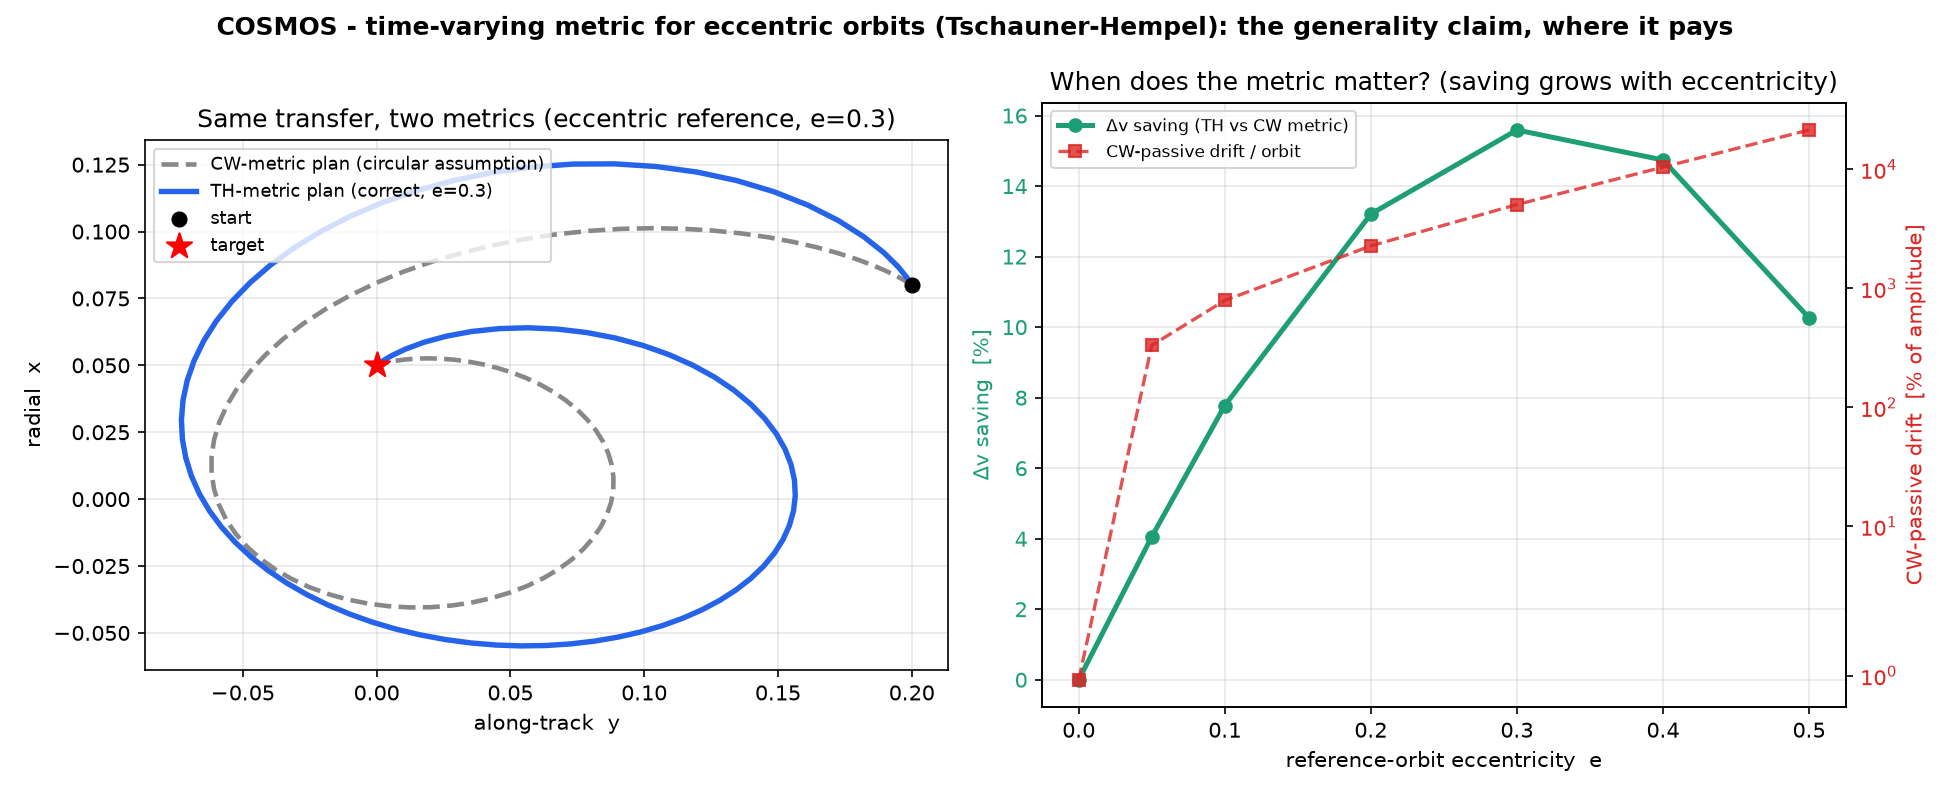
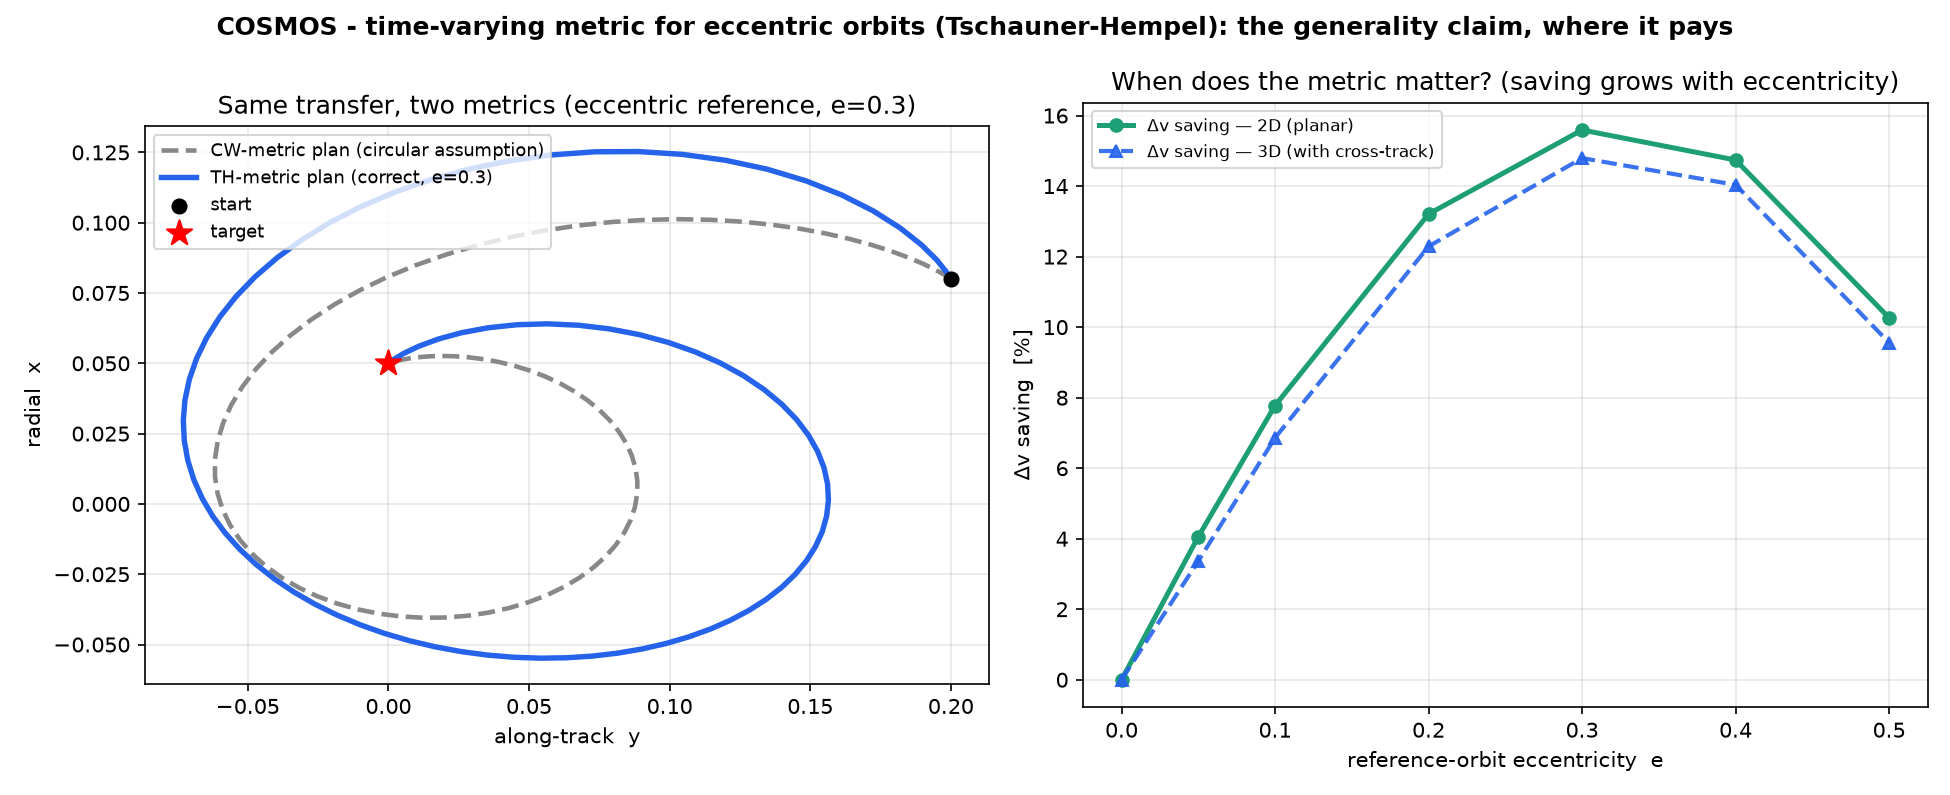
feat: generalize the time-varying (eccentric) metric to 3D cross-track
- _core: time_varying_operators / time_varying_offset / tschauner_hempel_coeffs
  are now dimension-general (2D or 3D). The 3D cross-track mode is the true
  time-varying gravity gradient z'' = -(mu/r^3) z, which reduces to the CW
  oscillator z'' + n^2 z at e=0. 2D output is bit-for-bit unchanged.
- cosmos_eccentric: adds a 3D (with cross-track) scenario scored under the full
  3D nonlinear relative EOM; the figure overlays the 2D and 3D saving curves,
  showing the generality holds out-of-plane (~15% at e=0.3 in both).
- T10b locks: 3D TH operator reduces to CW-3D at e=0 (bit-for-bit) and the 3D
  saving is ~0 at e=0, large at e=0.3. 17/17 tests pass.

diff --git a/src/cosmos/_core.py b/src/cosmos/_core.py
@@ -241,18 +241,8 @@ def spd_inverse(M, ridge=1e-9):
 # mismatch is ~1e-5 and CW is already adequate.
 
 
-def tschauner_hempel_coeffs(t, e, nm, a=1.0, mu=1.0):
-    """Planar time-varying coefficient blocks (Kx, Kv) of the linearized relative
-       motion about an eccentric reference orbit (semi-major axis ``a``,
-       eccentricity ``e``, mean motion ``nm``), in the rotating LVLH/Hill frame
-       (x = radial, y = along-track):
-
-           x'' = (theta_dot^2 + 2 mu/r^3) x + theta_ddot y + 2 theta_dot y' + u_x
-           y'' = -theta_ddot x + (theta_dot^2 - mu/r^3) y - 2 theta_dot x' + u_y
-
-       so  [x'';y''] = Kx [x;y] + Kv [x';y'] + u, with Kx, Kv evaluated at the
-       reference anomaly reached at time ``t`` (Kepler-solved). As e -> 0 this
-       reduces to the Clohessy-Wiltshire blocks exactly."""
+def _reference_anomaly(t, e, nm, a=1.0, mu=1.0):
+    """(r, theta_dot, theta_ddot) of the eccentric reference orbit at time t."""
     M = nm * t
     E = M
     for _ in range(60):                       # Newton solve of Kepler's equation
@@ -261,26 +251,56 @@ def tschauner_hempel_coeffs(t, e, nm, a=1.0, mu=1.0):
                           np.sqrt(1 - e) * np.cos(E / 2))
     r = a * (1.0 - e * np.cos(E))
     h = np.sqrt(mu * a * (1.0 - e ** 2))
-    thd = h / r ** 2                          # reference angular rate
+    thd = h / r ** 2
     rdot = mu / h * e * np.sin(nu)
-    thdd = -2.0 * rdot * thd / r              # reference angular acceleration
+    thdd = -2.0 * rdot * thd / r
+    return r, thd, thdd
+
+
+def tschauner_hempel_coeffs(t, e, nm, a=1.0, mu=1.0, dim=2):
+    """Time-varying coefficient blocks (Kx, Kv) of the linearized relative motion
+       about an eccentric reference orbit (semi-major axis ``a``, eccentricity
+       ``e``, mean motion ``nm``), in the rotating LVLH/Hill frame
+       (x = radial, y = along-track, z = cross-track):
+
+           x'' = (theta_dot^2 + 2 mu/r^3) x + theta_ddot y + 2 theta_dot y' + u_x
+           y'' = -theta_ddot x + (theta_dot^2 - mu/r^3) y - 2 theta_dot x' + u_y
+           z'' = -(mu/r^3) z + u_z                       (dim=3 only)
+
+       so  qddot = Kx q + Kv qdot + u, with Kx, Kv (dim x dim) evaluated at the
+       reference anomaly reached at time ``t`` (Kepler-solved). As e -> 0 this
+       reduces to the Clohessy-Wiltshire blocks exactly (and the cross-track mode
+       to z'' + n^2 z, since mu/r^3 -> n^2 for a circular orbit)."""
+    r, thd, thdd = _reference_anomaly(t, e, nm, a=a, mu=mu)
     g = mu / r ** 3
-    Kx = np.array([[thd ** 2 + 2 * g, thdd],
-                   [-thdd, thd ** 2 - g]])
-    Kv = np.array([[0.0, 2 * thd],
-                   [-2 * thd, 0.0]])
+    if dim == 2:
+        Kx = np.array([[thd ** 2 + 2 * g, thdd],
+                       [-thdd, thd ** 2 - g]])
+        Kv = np.array([[0.0, 2 * thd],
+                       [-2 * thd, 0.0]])
+    elif dim == 3:
+        Kx = np.array([[thd ** 2 + 2 * g, thdd, 0.0],
+                       [-thdd, thd ** 2 - g, 0.0],
+                       [0.0, 0.0, -g]])              # cross-track: z'' = -(mu/r^3) z
+        Kv = np.array([[0.0, 2 * thd, 0.0],
+                       [-2 * thd, 0.0, 0.0],
+                       [0.0, 0.0, 0.0]])
+    else:
+        raise ValueError("dim must be 2 or 3")
     return Kx, Kv
 
 
-def time_varying_operators(n, dt, coeff_fn, w_bc=0.0):
-    """Control operator B = D2 - G(t) for 2D planar TIME-VARYING linear relative
-       dynamics. ``coeff_fn(t)`` must return the blocks ``(Kx, Kv)`` (2x2 each)
-       such that  [x'';y''] = Kx [x;y] + Kv [x';y'] + u  at time ``t``.
+def time_varying_operators(n, dt, coeff_fn, w_bc=0.0, dim=2):
+    """Control operator B = D2 - G(t) for planar/3D TIME-VARYING linear relative
+       dynamics. ``coeff_fn(t)`` must return the blocks ``(Kx, Kv)`` (each
+       ``dim x dim``) such that  qddot = Kx q + Kv qdot + u  at time ``t``.
 
        Returns ``(B, (B^T B)^-1, blocks)`` with the same interface as
        chomp_cw.cw_operators / linear_relative_operators, so the covariant solver,
        the closed-form optimum and the metric-aware projections all apply
-       unchanged. ``w_bc>0`` appends the four rest-to-rest boundary-velocity rows."""
+       unchanged. ``w_bc>0`` appends the 2*dim rest-to-rest boundary-velocity rows.
+       dim=2 reproduces the planar operator bit-for-bit; dim=3 adds the (time-
+       varying) cross-track mode."""
     D2 = np.zeros((n, n + 2)); D1 = np.zeros((n, n + 2))
     for t in range(n):
         D2[t, t] = 1.0; D2[t, t + 1] = -2.0; D2[t, t + 2] = 1.0
@@ -290,59 +310,57 @@ def time_varying_operators(n, dt, coeff_fn, w_bc=0.0):
     D1f, D1b = D1[:, 1:n + 1], D1[:, [0, n + 1]]
     I = np.eye(n)
 
-    Bxx = D2f.copy(); Bxy = np.zeros((n, n))
-    Byx = np.zeros((n, n)); Byy = D2f.copy()
-    # per-waypoint (row) coefficients -> subtract G(t_k) from that row
-    Kx_all = np.zeros((n, 2, 2)); Kv_all = np.zeros((n, 2, 2))
+    # per-dimension block grid; start each diagonal block from D2f, off-diagonals 0
+    blocks_grid = [[D2f.copy() if a == b else np.zeros((n, n))
+                    for b in range(dim)] for a in range(dim)]
+    Kx_all = np.zeros((n, dim, dim)); Kv_all = np.zeros((n, dim, dim))
     for t in range(n):
         tt = (t + 1) * dt                      # interior waypoint time
         Kx, Kv = coeff_fn(tt)
         Kx_all[t] = Kx; Kv_all[t] = Kv
-        Bxx[t] -= Kx[0, 0] * I[t] + Kv[0, 0] * D1f[t]
-        Bxy[t] -= Kx[0, 1] * I[t] + Kv[0, 1] * D1f[t]
-        Byx[t] -= Kx[1, 0] * I[t] + Kv[1, 0] * D1f[t]
-        Byy[t] -= Kx[1, 1] * I[t] + Kv[1, 1] * D1f[t]
-    B = np.block([[Bxx, Bxy], [Byx, Byy]])
+        for a in range(dim):                   # row block (output dim a)
+            for b in range(dim):               # col block (variable dim b)
+                blocks_grid[a][b][t] -= Kx[a, b] * I[t] + Kv[a, b] * D1f[t]
+    B = np.block(blocks_grid)
 
     sw = np.sqrt(w_bc)
     if w_bc > 0.0:
-        R = np.zeros((4, 2 * n))
-        R[0, 0] = sw / dt; R[1, n - 1] = -sw / dt
-        R[2, n] = sw / dt; R[3, 2 * n - 1] = -sw / dt
+        R = np.zeros((2 * dim, dim * n))
+        for d in range(dim):
+            R[2 * d, d * n] = sw / dt                 # start velocity, dim d
+            R[2 * d + 1, d * n + n - 1] = -sw / dt    # goal velocity,  dim d
         B = np.vstack([B, R])
 
-    M = B.T @ B + 1e-9 * np.eye(2 * n)
+    M = B.T @ B + 1e-9 * np.eye(dim * n)
     Minv = spd_inverse(M)
     blocks = dict(D2b=D2b, D1b=D1b, dt=dt, n=n, sw=sw, w_bc=w_bc,
-                  Kx=Kx_all, Kv=Kv_all)
+                  Kx=Kx_all, Kv=Kv_all, dim=dim)
     return B, Minv, blocks
 
 
 def time_varying_offset(blocks, start, goal):
-    """Constant term c0 so that  u = B xi + c0  for the time-varying operator.
-       The fixed endpoints feed the D2/D1 boundary columns AND the per-row G(t)
-       velocity coupling (the radial/along-track Coriolis term), so c0 carries a
-       Kv contribution that the constant-coefficient offset did not need."""
+    """Constant term c0 so that  u = B xi + c0  for the time-varying operator
+       (dim-general). The fixed endpoints feed the D2 boundary columns AND the
+       per-row G(t) velocity coupling, so c0 carries a Kv contribution that the
+       constant-coefficient offset did not need."""
     D2b, D1b = blocks["D2b"], blocks["D1b"]
-    dt, n = blocks["dt"], blocks["n"]
+    dt, n, dim = blocks["dt"], blocks["n"], blocks["dim"]
     Kv = blocks["Kv"]
-    ex = np.array([start[0], goal[0]]); ey = np.array([start[1], goal[1]])
-    # D2 boundary contribution (same as the constant-coefficient case)
-    c0x = D2b @ ex
-    c0y = D2b @ ey
-    # subtract the velocity-coupling of the FIXED endpoints: only the first/last
-    # interior rows see a boundary point through the centered velocity stencil D1b.
-    # D1b has nonzero entries only at waypoints 0 (start col) and n-1 (goal col).
-    vx_bc = D1b @ ex            # length-n, nonzero at rows 0 and n-1
-    vy_bc = D1b @ ey
+    # per-dim fixed-endpoint pairs [start_d, goal_d]
+    e = [np.array([start[d], goal[d]]) for d in range(dim)]
+    c0_blocks = [D2b @ e[d] for d in range(dim)]            # D2 boundary term
+    v_bc = [D1b @ e[d] for d in range(dim)]                 # endpoint velocity feed
     for t in range(n):
-        c0x[t] -= Kv[t, 0, 0] * vx_bc[t] + Kv[t, 0, 1] * vy_bc[t]
-        c0y[t] -= Kv[t, 1, 0] * vx_bc[t] + Kv[t, 1, 1] * vy_bc[t]
-    c0 = np.concatenate([c0x, c0y])
+        for a in range(dim):
+            for b in range(dim):
+                c0_blocks[a][t] -= Kv[t, a, b] * v_bc[b][t]
+    c0 = np.concatenate(c0_blocks)
     if blocks["w_bc"] > 0.0:
         sw = blocks["sw"]
-        c0 = np.concatenate([c0, np.array([-sw * start[0] / dt, sw * goal[0] / dt,
-                                           -sw * start[1] / dt, sw * goal[1] / dt])])
+        bc = []
+        for d in range(dim):
+            bc += [-sw * start[d] / dt, sw * goal[d] / dt]
+        c0 = np.concatenate([c0, np.array(bc)])
     return c0
 
 

diff --git a/src/cosmos/cosmos_eccentric.py b/src/cosmos/cosmos_eccentric.py
@@ -70,14 +70,21 @@ def reference_kinematics(t, e):
     return r, thd, thdd
 
 
-def true_relative_accel(t, x, y, vx, vy, e):
+def true_relative_accel(t, x, v, e):
     """Exact (nonlinear) relative acceleration in the rotating LVLH frame about an
-       eccentric orbit -- the GROUND TRUTH both plans are scored against."""
+       eccentric orbit -- the GROUND TRUTH both plans are scored against. Handles
+       2D (x = [radial, along-track]) and 3D (+ cross-track z); the cross-track
+       term is the pure nonlinear gravity gradient -MU*z/rc^3."""
     r, thd, thdd = reference_kinematics(t, e)
-    rc = np.sqrt((r + x) ** 2 + y ** 2)
-    ax = thdd * y + 2 * thd * vy + thd ** 2 * x - MU * (r + x) / rc ** 3 + MU / r ** 2
-    ay = -thdd * x - 2 * thd * vx + thd ** 2 * y - MU * y / rc ** 3
-    return ax, ay
+    xr, ya = x[0], x[1]
+    za = x[2] if len(x) == 3 else 0.0
+    rc = np.sqrt((r + xr) ** 2 + ya ** 2 + za ** 2)
+    ax = thdd * ya + 2 * thd * v[1] + thd ** 2 * xr - MU * (r + xr) / rc ** 3 + MU / r ** 2
+    ay = -thdd * xr - 2 * thd * v[0] + thd ** 2 * ya - MU * ya / rc ** 3
+    if len(x) == 3:
+        az = -MU * za / rc ** 3
+        return np.array([ax, ay, az])
+    return np.array([ax, ay])
 
 
 # ---------------------------------------------------------------------------
@@ -85,9 +92,11 @@ def true_relative_accel(t, x, y, vx, vy, e):
 # ---------------------------------------------------------------------------
 def plan(metric_e, start, goal, n, dt, w_bc=2.0e4):
     """Closed-form energy-optimal rest-to-rest plan in the metric of eccentricity
-       ``metric_e`` (0 -> CW metric; e -> the correct time-varying TH metric)."""
-    coeff = lambda tt: tschauner_hempel_coeffs(tt, metric_e, NM, a=A_REF, mu=MU)
-    B, Minv, blocks = time_varying_operators(n, dt, coeff, w_bc=w_bc)
+       ``metric_e`` (0 -> CW metric; e -> the correct time-varying TH metric).
+       2D or 3D, inferred from len(start)."""
+    dim = len(start)
+    coeff = lambda tt: tschauner_hempel_coeffs(tt, metric_e, NM, a=A_REF, mu=MU, dim=dim)
+    B, Minv, blocks = time_varying_operators(n, dt, coeff, w_bc=w_bc, dim=dim)
     c0 = time_varying_offset(blocks, start, goal)
     xi = -Minv @ (B.T @ c0)                      # unconstrained optimum = GN step
     return to_traj(xi, n)
@@ -98,9 +107,8 @@ def plan(metric_e, start, goal, n, dt, w_bc=2.0e4):
 # ---------------------------------------------------------------------------
 def realized_delta_v(traj, start, goal, dt, e):
     """Delta-v (L1) a thruster must supply to realize ``traj`` under the true
-       eccentric dynamics: u_t = a_t^(plan) - f_true(x_t, v_t, t), summed |u|*dt.
-       This scores the PLAN (its finite-difference accelerations) against the real
-       free dynamics, so a plan that rides the true natural motion costs less."""
+       eccentric dynamics (2D or 3D): u_t = a_t^(plan) - f_true(x_t, v_t, t),
+       summed |u|*dt. A plan that rides the true natural motion costs less."""
     Q = np.vstack([start, traj, goal])
     n = traj.shape[0]
     dv = 0.0
@@ -108,8 +116,7 @@ def realized_delta_v(traj, start, goal, dt, e):
         x = Q[t + 1]
         v = (Q[t + 2] - Q[t]) / (2.0 * dt)
         a = (Q[t + 2] - 2.0 * Q[t + 1] + Q[t]) / dt ** 2
-        fx, fy = true_relative_accel((t + 1) * dt, x[0], x[1], v[0], v[1], e)
-        u = a - np.array([fx, fy])
+        u = a - true_relative_accel((t + 1) * dt, x, v, e)
         dv += np.linalg.norm(u) * dt
     return dv
 
@@ -119,7 +126,7 @@ def passive_drift(e, rho=1.0e-3, orbits=1.0):
        eccentric dynamics in ``orbits`` revolutions, as a fraction of amplitude."""
     s0 = [rho, 0.0, 0.0, -2.0 * NM * rho]
     sol = solve_ivp(lambda t, s: [s[2], s[3],
-                                  *true_relative_accel(t, s[0], s[1], s[2], s[3], e)],
+                                  *true_relative_accel(t, s[:2], s[2:], e)],
                     [0, orbits * PERIOD], s0, max_step=PERIOD / 2000,
                     rtol=1e-10, atol=1e-12)
     drift = np.hypot(sol.y[0, -1] - s0[0], sol.y[1, -1] - s0[1])
@@ -130,13 +137,19 @@ def passive_drift(e, rho=1.0e-3, orbits=1.0):
 # 4. Experiment
 # ---------------------------------------------------------------------------
 def run(eccentricities=(0.0, 0.05, 0.1, 0.2, 0.3, 0.4, 0.5), N=90,
-        orbits=1.0, verbose=True):
+        orbits=1.0, dim=2, verbose=True):
     """For each eccentricity, plan with the CW metric and with the TH metric, score
-       both under true eccentric dynamics, and return the saving curve."""
+       both under the true (nonlinear) eccentric dynamics, and return the saving
+       curve. ``dim=3`` adds an out-of-plane (cross-track) component to the
+       transfer and scores against the full 3D nonlinear relative motion."""
     T = orbits * PERIOD
     dt = T / (N + 1)
-    start = np.array([0.08, 0.20])      # radial, along-track (normalized)
-    goal = np.array([0.05, 0.0])
+    if dim == 2:
+        start = np.array([0.08, 0.20])            # radial, along-track (normalized)
+        goal = np.array([0.05, 0.0])
+    else:
+        start = np.array([0.08, 0.20, 0.06])      # + cross-track z
+        goal = np.array([0.05, 0.0, 0.0])
     rows = []
     for e in eccentricities:
         t_cw = plan(0.0, start, goal, N, dt)      # circular-orbit metric (baseline)
@@ -148,7 +161,8 @@ def run(eccentricities=(0.0, 0.05, 0.1, 0.2, 0.3, 0.4, 0.5), N=90,
                          drift=passive_drift(e, orbits=orbits)))
     if verbose:
         print("=== COSMOS extension: time-varying metric for eccentric orbits ===")
-        print(f"rest-to-rest relative transfer, {orbits:.0f} orbit(s), N={N} waypoints")
+        print(f"rest-to-rest relative transfer, {orbits:.0f} orbit(s), N={N} waypoints, "
+              f"{dim}D ({'planar' if dim == 2 else 'with cross-track'})")
         print(f"ground truth: full nonlinear relative EOM about an eccentric orbit\n")
         print(f"{'e':>5} | {'CW-metric dv':>13} | {'TH-metric dv':>13} | "
               f"{'saving':>8} | {'CW-passive drift':>16}")
@@ -189,21 +203,19 @@ def main(out="cosmos_eccentric.png"):
     ax1.set_aspect("equal"); ax1.grid(alpha=0.3); ax1.legend(fontsize=8.5)
     ax1.set_title(f"Same transfer, two metrics (eccentric reference, e={e_show})")
 
-    ax2.plot(es, savings, "o-", color="#1d9e75", lw=2.4, label="Δv saving (TH vs CW metric)")
+    # 3D (cross-track) sweep to show the generality holds out-of-plane
+    rows3d = run(dim=3, verbose=False)
+    es3 = [r["e"] for r in rows3d]; sav3 = [r["saving"] for r in rows3d]
+
+    ax2.plot(es, savings, "o-", color="#1d9e75", lw=2.4,
+             label="Δv saving — 2D (planar)")
+    ax2.plot(es3, sav3, "^--", color="#2563EB", lw=2.0, alpha=0.9,
+             label="Δv saving — 3D (with cross-track)")
     ax2.set_xlabel("reference-orbit eccentricity  e")
-    ax2.set_ylabel("Δv saving  [%]", color="#1d9e75")
-    ax2.tick_params(axis="y", labelcolor="#1d9e75")
+    ax2.set_ylabel("Δv saving  [%]")
     ax2.grid(alpha=0.3)
-    ax2b = ax2.twinx()
-    ax2b.plot(es, drifts, "s--", color="#DC2626", lw=1.6, alpha=0.8,
-              label="CW-passive drift / orbit")
-    ax2b.set_ylabel("CW-passive drift  [% of amplitude]", color="#DC2626")
-    ax2b.set_yscale("symlog")
-    ax2b.tick_params(axis="y", labelcolor="#DC2626")
     ax2.set_title("When does the metric matter? (saving grows with eccentricity)")
-    l1, lab1 = ax2.get_legend_handles_labels()
-    l2, lab2 = ax2b.get_legend_handles_labels()
-    ax2.legend(l1 + l2, lab1 + lab2, fontsize=8.3, loc="upper left")
+    ax2.legend(fontsize=8.3, loc="upper left")
 
     fig.suptitle("COSMOS - time-varying metric for eccentric orbits "
                  "(Tschauner-Hempel): the generality claim, where it pays",

diff --git a/tests/test_cosmos.py b/tests/test_cosmos.py
@@ -210,6 +210,32 @@ def test_eccentric_metric_beats_cw_metric():
 
 
 # ---------------------------------------------------------------------------
+# T10b - the eccentric result also holds in 3D (cross-track), scored under the
+#        full 3D nonlinear dynamics; and the 3D TH operator reduces to CW-3D at e=0
+# ---------------------------------------------------------------------------
+def test_eccentric_metric_holds_in_3d():
+    from cosmos._core import (time_varying_operators, time_varying_offset,
+                              tschauner_hempel_coeffs)
+    from cosmos.chomp_cw import cw_operators, cw_offset
+    N, T, nm = 50, np.pi, 1.0
+    dt = T / (N + 1)
+    # 3D at e=0 reproduces CW-3D bit-for-bit (strict superset)
+    coeff = lambda t: tschauner_hempel_coeffs(t, e=0.0, nm=nm, dim=3)
+    B_tv, _, bl = time_varying_operators(N, dt, coeff, w_bc=0.0, dim=3)
+    B_cw, _, blcw = cw_operators(N, dt, nm, w_bc=0.0, dim=3)
+    assert np.allclose(B_tv, B_cw, atol=1e-12)
+    s3, g3 = np.array([3.0, 5.0, 2.0]), np.array([0.0, 0.0, 0.0])
+    assert np.allclose(time_varying_offset(bl, s3, g3),
+                       cw_offset(blcw, s3, g3), atol=1e-12)
+    # and the saving curve in 3D behaves like 2D: ~0 at e=0, large at e=0.3
+    from cosmos import cosmos_eccentric as ecc
+    rows = ecc.run(eccentricities=(0.0, 0.3), N=70, dim=3, verbose=False)
+    by = {r["e"]: r for r in rows}
+    assert abs(by[0.0]["saving"]) < 0.5
+    assert by[0.3]["saving"] > 5.0
+
+
+# ---------------------------------------------------------------------------
 # T11 - the covariant preconditioner is the exact Gauss-Newton step
 # ---------------------------------------------------------------------------
 def test_preconditioner_is_exact_gauss_newton():
